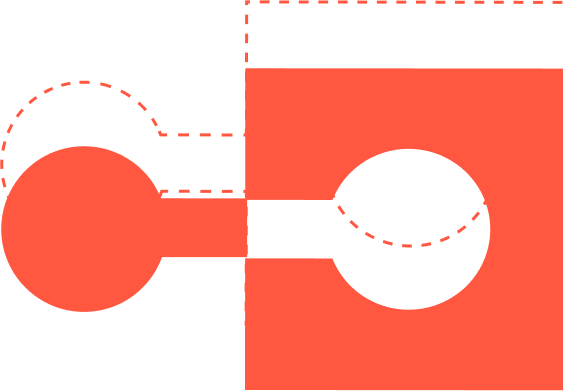
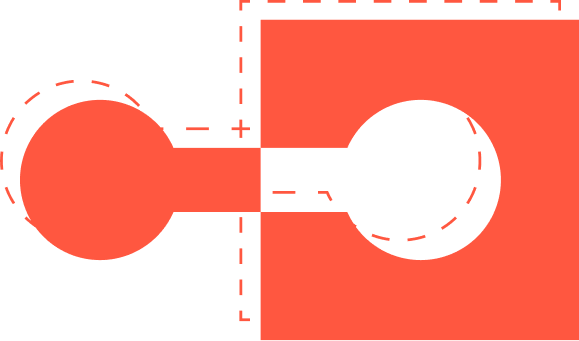
WebinarUpdate

diff --git a/style/main.scss b/style/main.scss
@@ -311,7 +311,7 @@ header {
     }
     .whoimg {
       position: absolute;
-      top: 7vw;
+      top: 11.625rem;
       right: 0;
     }
   }
@@ -372,7 +372,7 @@ header {
 
 .webinar-section {
   background-color: #1b2d4b;
-  max-height: 712px;
+  position: relative;
   div {
     display: flex;
     justify-content: center;
@@ -380,6 +380,7 @@ header {
     align-items: center;
     .webinar-text-container {
       margin-top: 9.5rem;
+      margin-bottom: 14.4375rem;
       width: 506px;
       h1 {
         font-size: 2.25rem;
@@ -403,9 +404,23 @@ header {
         }
       }
       div {
+        position: relative;
         p {
           color: $primary-orange;
         }
+        a {
+          position: absolute;
+          top: 0;
+          right: -25px;
+        }
+      }
+      img:first-child {
+        position: absolute;
+        left: 0;
+      }
+      img {
+        position: absolute;
+        right: 0;
       }
     }
   }

diff --git a/index.html b/index.html
@@ -263,6 +263,8 @@
       <section class="webinar-section">
         <div class="max-width">
           <div class="webinar-text-container">
+            <img src="./images/rightWebinar.png" alt="rightArrow" />
+            <img src="./images/leftWebinar.png" alt="leftArrow<" />
             <h1>
               <span>Pour en savoir plus,</span
               ><span>découvrez notre webinaire !</span>
@@ -274,7 +276,7 @@
             </p>
             <div>
               <p>Retrouvez nos webinaires en replay</p>
-              <a href=""><img src="" alt="" /></a>
+              <a href="#"><img src="./images/arrow.png" alt="arrow" /></a>
             </div>
           </div>
         </div>
